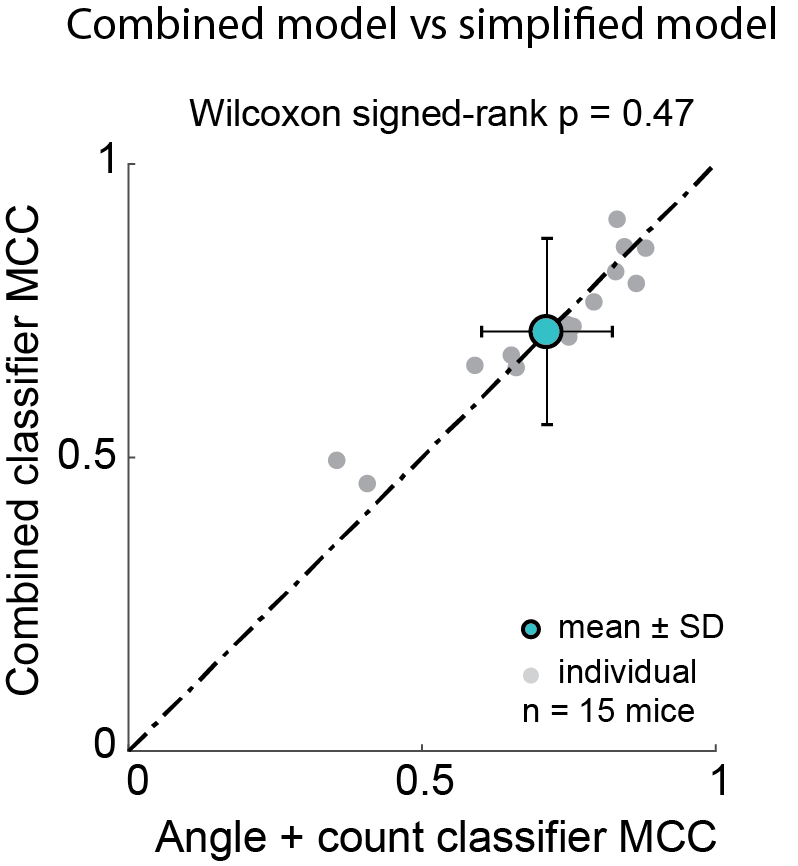
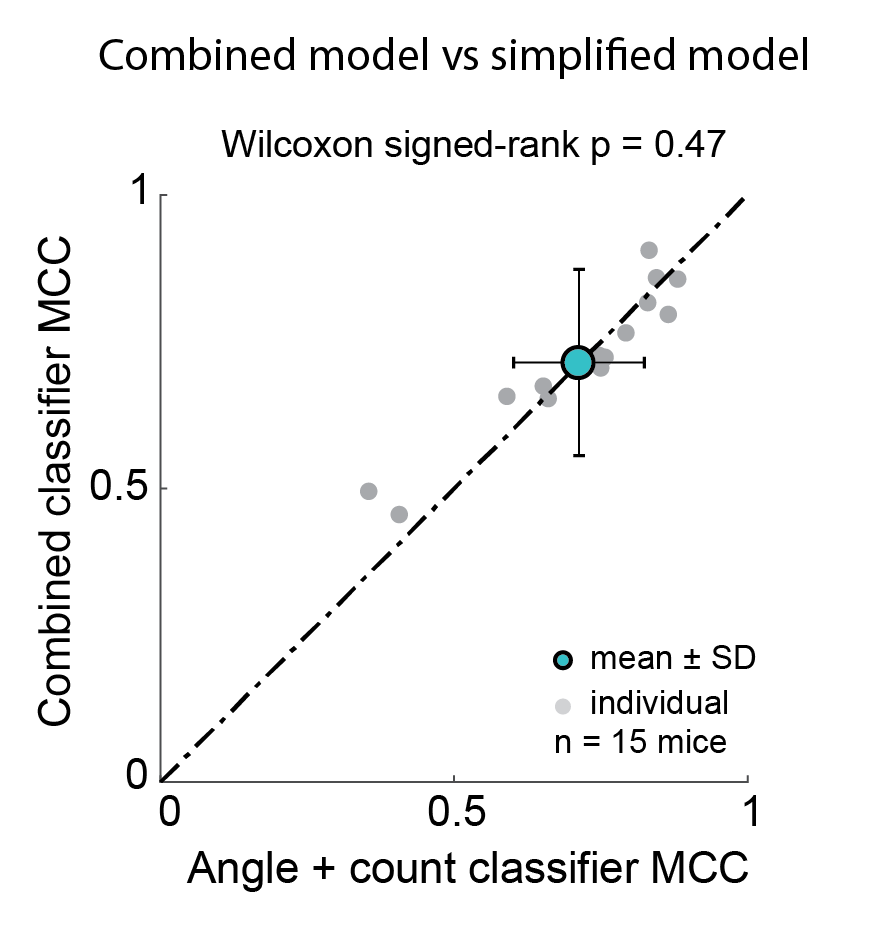
testing image resizing

diff --git a/_projects/2020-04-30-localization-behavior.md b/_projects/2020-04-30-localization-behavior.md
@@ -5,7 +5,7 @@ date: 2020-04-30 00:00:00
 featured_image: /images/landscapes/cortical-columns.jpg
 ---
 
-![](/images/projects/localization/model-summary.png =150x250)
+![](/images/projects/localization/model-summary.png =300x450)
 *Graphical summmary of the conclusions*
 
 #### Primer
